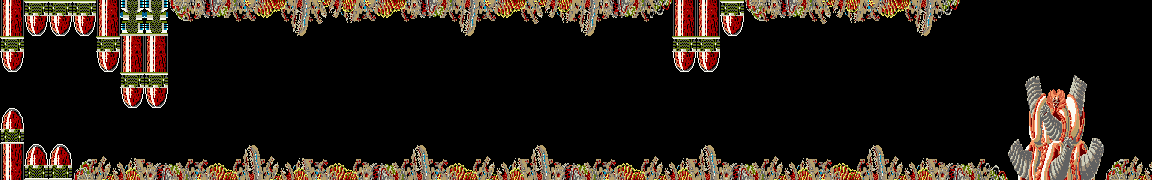
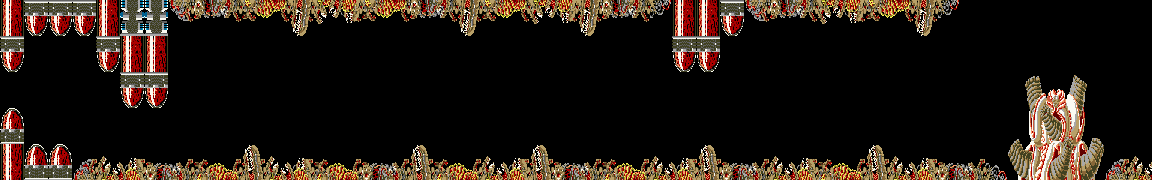
groupe F : le mode pal-next d'arcade_to_in, et le stage 2 converti
L'outillage de l'etude (analyse-palettes-stages-2026-08.md §5), et sa premiere
execution — le stage 2, l'ordre acte.

arcade_to_in.py --pal-next :
  * base = les 12 communs de pal-next.png (lus dans le fichier, pas recopies) ;
  * cases attribuables = les 4 cases propres au stage, par l'algorithme de
    cout existant — sauf la 14, PRE-CHARGEE olive quand un lot du stage la
    porte. Le gel se MESURE (cast.const.asm -> scenes de lot -> PNG des lots,
    via palette_usage importe en module) : la liste « 1, 3, 4, 5, 7 » n'est
    vraie que tant que le cast la rend vraie, on ne l'ecrit nulle part ;
  * ecrit AUSSI la palette dediee src/stages/NN/palette/pal.png, depuis la
    MEME affectation que l'in.png — l'accord ne peut pas diverger, il n'y a
    qu'une source. Cases restees sans teinte : noir.

Stage 2 (pas de lot olive -> 4 cases libres, mesure) :
  12=#B8A068  13=#404020  14=#886838  15=#A0A018
La re-quantification exploite la nouvelle palette comme prevu : les beiges
clairs de l'arcade rejoignent les gris communs A8A8A8/FAFAF2 (l'ancienne
palette n'avait pas de gris clair, ils partaient au beige), et les teintes
elues different de l'ancienne conversion — c'est l'optimisation demandee,
choisie par cout px x distance, pas a la main.

Le config bascule le Pal_stage du stage 2 sur la palette dediee — premiere
sortie du defaut « palette derivee du tileset genere » que palette_usage
signale depuis le 15/08. Piege au passage : `--pal-next` dans un commentaire
[…]

diff --git a/games/r-type/tools/arcade_to_in.py b/games/r-type/tools/arcade_to_in.py
@@ -27,6 +27,17 @@ du build.
     --out chemin    sortie (défaut src/stages/<NN>/map/in.png)
     --dry-run       n'écrit rien, affiche seulement la correspondance
 
+    --pal-next      convertit contre la NOUVELLE palette (campagne 08/2026) :
+                    base = les 12 communs de pal-next.png, emplacements
+                    attribuables = les cases propres au stage (13, 14, 16 PNG,
+                    plus 15 si l'olive n'y est pas gelée). L'olive 617A00 est
+                    PRÉ-CHARGÉE en 15 PNG (matériel 14) quand un lot d'ennemis
+                    du stage la porte — le gel se mesure dans cast.const.asm et
+                    les images des lots, jamais dans une liste écrite. Écrit
+                    AUSSI la palette dédiée src/stages/<NN>/palette/pal.png,
+                    depuis la même affectation : les deux ne peuvent pas
+                    diverger. --ref et --free sont ignorés dans ce mode.
+
 Entrée type : re.arcade.r-type/out/tiles/level<N>_f.png
 """
 import argparse
@@ -85,6 +96,77 @@ def assign(colors, palette, free):
     return {c: nearest(c, slots) for c in colors}, chosen
 
 
+PAL_NEXT = 'src/stages/01/palette/pal-next.png'
+OLIVE = (0x61, 0x7A, 0x00)
+MAGENTA = (0xCC, 0x00, 0xFF)
+
+
+def _usage_mod():
+    """Le releve palette_usage, importe comme module — une seule source pour
+    « quels lots ce stage charge » et « quelles images porte un lot »."""
+    import importlib.util
+    spec = importlib.util.spec_from_file_location(
+        'palette_usage', os.path.join(os.path.dirname(os.path.abspath(__file__)),
+                                      'palette_usage.py'))
+    mod = importlib.util.module_from_spec(spec)
+    spec.loader.exec_module(mod)
+    return mod
+
+
+def olive_gelee(stage):
+    """L'olive est-elle gravee en materiel 14 sur ce stage ? Vrai si un LOT
+    charge par le stage a une image qui emploie l'index materiel 14. Mesure —
+    cast.const.asm + scenes du config + PNG des lots — parce que la liste
+    « 1, 3, 4, 5, 7 » n'est vraie que tant que le cast la rend vraie."""
+    import xml.etree.ElementTree as ET
+    pu = _usage_mod()
+    lots = pu.lots_du_stage('stage%d' % int(stage), '.')
+    if not lots:
+        return False
+    root = ET.parse('to8.config.xml').getroot()
+    scenes = {sc.get('name'): [l.get('name') for l in sc.iter('load')]
+              for sc in root.iter('scene')}
+    unites = {u for lot in lots for u in scenes.get('scenes.lot.%s' % lot, [])}
+    for f in root.iter('file'):
+        if f.get('name') not in unites:
+            continue
+        for g in f.iter('gfxcomp'):
+            for png in pu.expanse(g, '.'):
+                if Image.open(png).histogram()[15]:      # PNG 15 = materiel 14
+                    return True
+    return False
+
+
+def palette_pal_next(stage):
+    """(palette 256 rgb, emplacements attribuables) du mode --pal-next.
+    PNG 1..12 = les 12 communs de pal-next ; 13..16 = les cases du stage,
+    attribuables — sauf 15 (materiel 14), pre-chargee olive si gelee."""
+    p = Image.open(PAL_NEXT).getpalette()
+    communs = [tuple(p[i * 3:i * 3 + 3]) for i in range(1, 13)]
+    palette = [MAGENTA] + communs + [(0, 0, 0)] * 243
+    free = [13, 14, 15, 16]
+    if olive_gelee(stage):
+        palette[15] = OLIVE
+        free = [13, 14, 16]
+    return palette, free
+
+
+def ecrire_pal(stage, palette, chosen):
+    """La palette dediee du stage, depuis la MEME affectation que l'in.png.
+    Les cases propres restees sans teinte sortent en noir — visible dans le
+    fichier, et le noir est la valeur la moins intrusive si un pixel egare
+    les touche."""
+    out = os.path.join('src/stages/%s/palette' % stage, 'pal.png')
+    os.makedirs(os.path.dirname(out), exist_ok=True)
+    im = Image.new('P', (1, 1))
+    flat = []
+    for i in range(256):
+        flat += list(palette[i] if i <= 16 else (0, 0, 0))
+    im.putpalette(flat)
+    im.save(out)
+    return out
+
+
 def main():
     ap = argparse.ArgumentParser(add_help=False)
     ap.add_argument('stage')
@@ -93,6 +175,7 @@ def main():
     ap.add_argument('--free', default=','.join(map(str, FREE_DEFAULT)))
     ap.add_argument('--out', default=None)
     ap.add_argument('--dry-run', action='store_true')
+    ap.add_argument('--pal-next', action='store_true')
     ap.add_argument('-h', '--help', action='store_true')
     args = ap.parse_args()
     if args.help:
@@ -107,15 +190,24 @@ def main():
     width, height = round(w * SCALE_X), round(h * SCALE_Y)
     small = downscale(src, width, height)
 
-    ref = Image.open(f'src/stages/{args.ref}/map/in.png')
-    palette = ref.getpalette()
-    palette = [tuple(palette[i * 3:i * 3 + 3]) for i in range(256)]
+    if args.pal_next:
+        palette, free = palette_pal_next(args.stage)
+        gel = 15 not in free
+        print('mode pal-next : communs de %s ; cases attribuables (PNG) %s%s'
+              % (PAL_NEXT, free,
+                 ' ; olive GELEE en 15 (materiel 14), mesuree sur les lots'
+                 if gel else ''))
+    else:
+        ref = Image.open(f'src/stages/{args.ref}/map/in.png')
+        palette = ref.getpalette()
+        palette = [tuple(palette[i * 3:i * 3 + 3]) for i in range(256)]
 
     colors = Counter(small.get_flattened_data())
     mapping, chosen = assign(colors, palette, free)
 
     print(f'{args.plane}  {w}x{h}  ->  {out_path}  {width}x{height}')
-    print(f'palette de base : stage {args.ref} ; emplacements attribuables {free}')
+    if not args.pal_next:
+        print(f'palette de base : stage {args.ref} ; emplacements attribuables {free}')
     print()
     print(f'{"couleur arcade":18} {"pixels":>8} {"%":>6}  idx  {"couleur TO8":18} ecart')
     total = width * height
@@ -140,6 +232,9 @@ def main():
     os.makedirs(os.path.dirname(out_path), exist_ok=True)
     out.save(out_path)
     print(f'\necrit {out_path}')
+    if args.pal_next:
+        pal_path = ecrire_pal(args.stage, palette, chosen)
+        print(f'ecrit {pal_path} (la meme affectation : accord garanti)')
     return 0
 
 
